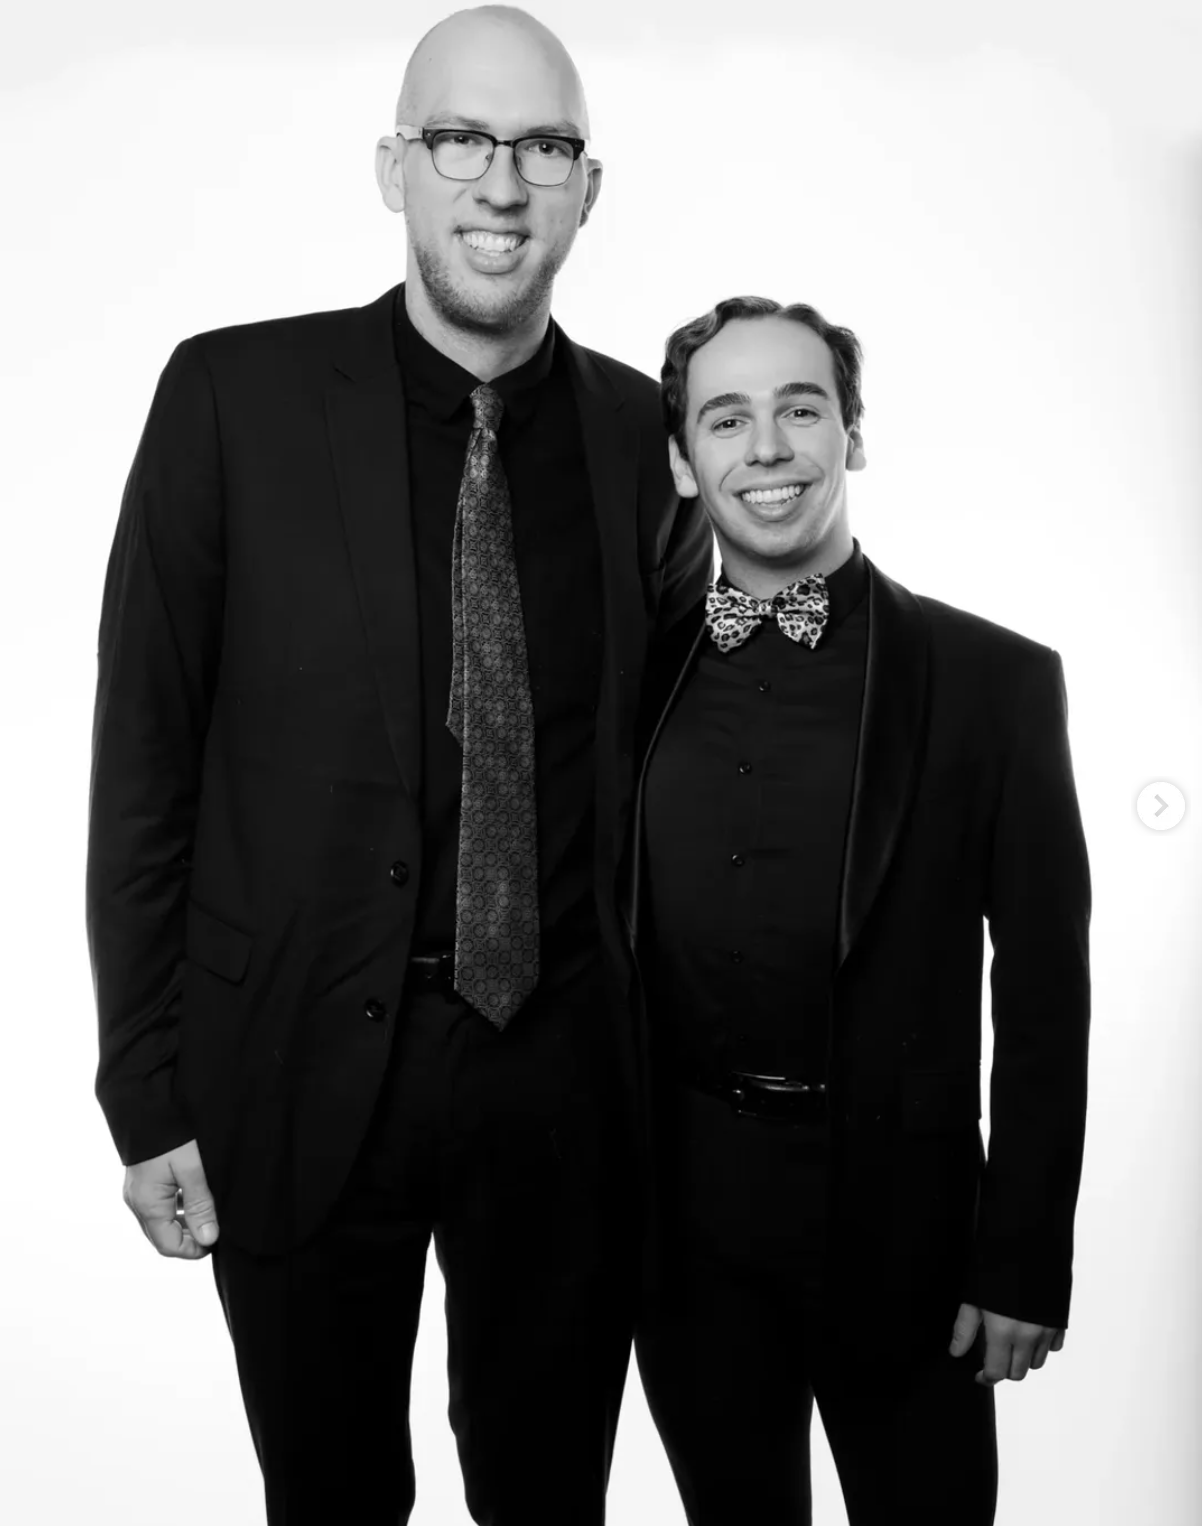
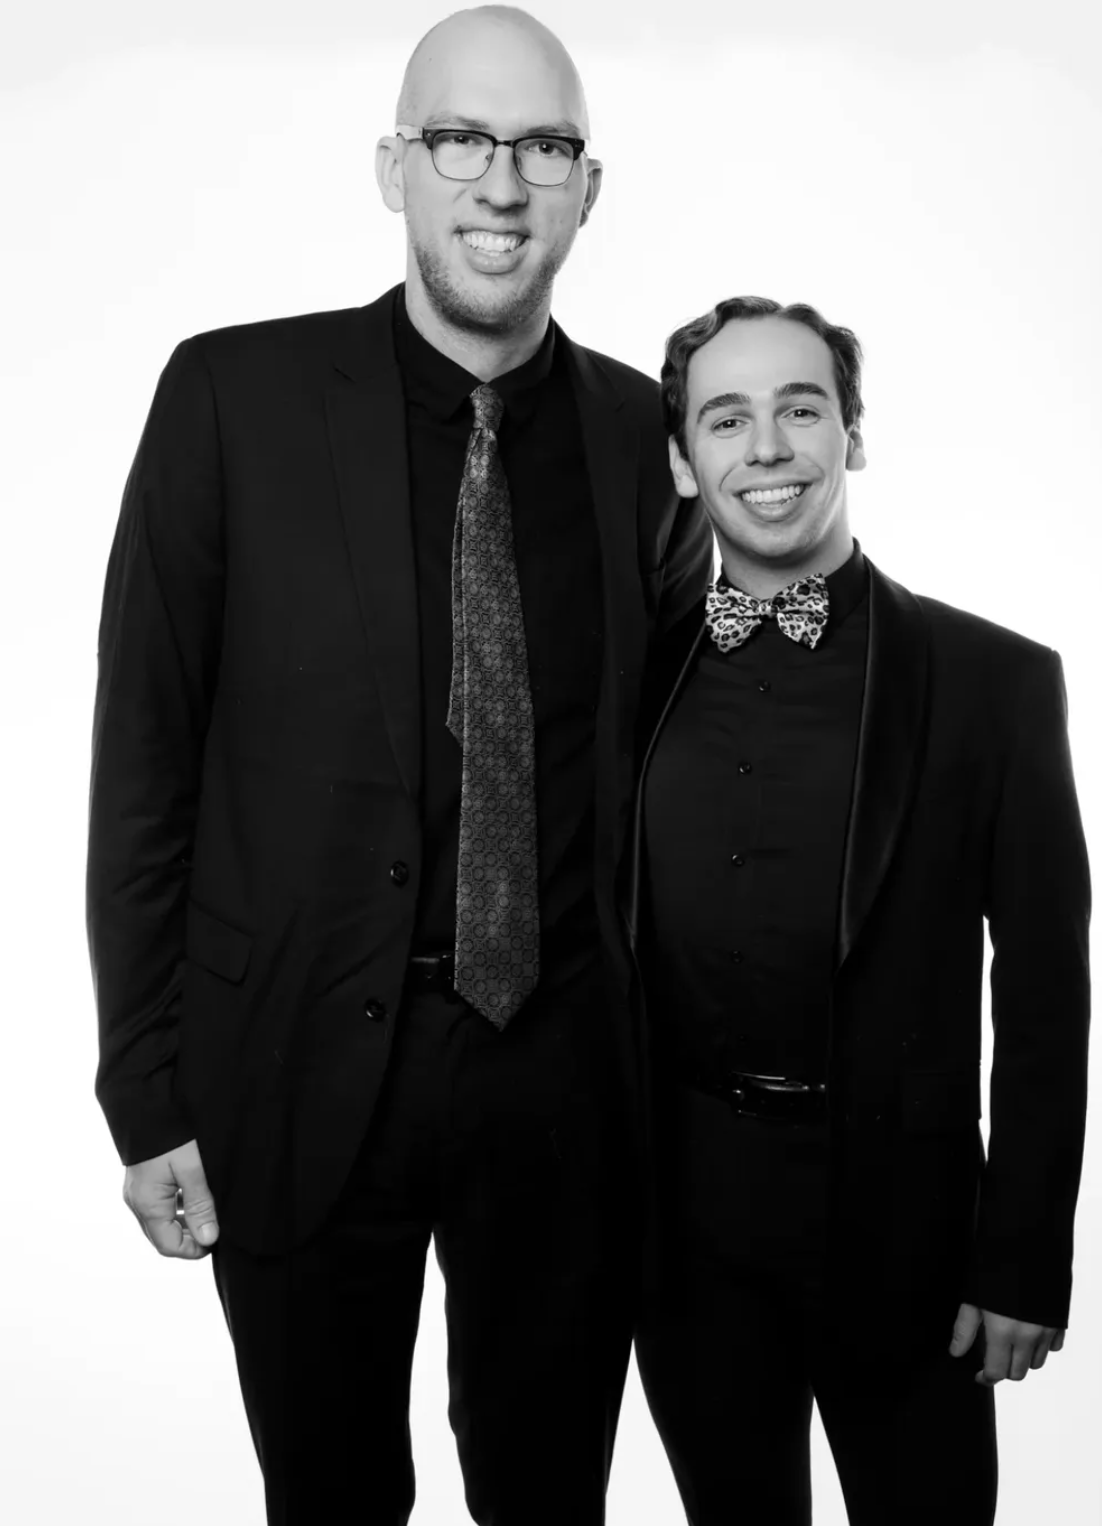
Add couple's photo to placeholder page
Crop out an Instagram carousel arrow that was baked into the
uploaded image, and swap the photo frame from circle to a
rounded portrait shape that fits the full-body shot.

Claude-Session: https://claude.ai/code/session_017dFwQT7f9xaf29A2AWhhuC

diff --git a/index.html b/index.html
@@ -37,34 +37,23 @@
     text-align: center;
   }
   .photo-frame {
-    width: 220px;
-    height: 220px;
+    width: 240px;
+    max-width: 65vw;
+    aspect-ratio: 1102 / 1526;
     margin: 0 auto 32px;
-    border-radius: 50%;
+    border-radius: 16px;
     border: 1px solid var(--line);
     background: #fff;
     display: flex;
     align-items: center;
     justify-content: center;
     overflow: hidden;
+    box-shadow: 0 8px 24px rgba(46, 42, 38, 0.08);
   }
   .photo-frame img {
     width: 100%;
     height: 100%;
     object-fit: cover;
-  }
-  .monogram {
-    font-family: 'Playfair Display', serif;
-    font-weight: 500;
-    font-size: 44px;
-    color: var(--gold);
-    letter-spacing: 2px;
-  }
-  .ampersand {
-    font-style: italic;
-    font-size: 28px;
-    opacity: 0.6;
-    margin: 0 4px;
   }
   h1 {
     font-family: 'Playfair Display', serif;
@@ -102,12 +91,7 @@
 <body>
   <div class="card">
     <div class="photo-frame">
-      <!--
-        To add the couple's photo: replace the line below with
-        <img src="photo.jpg" alt="John and TJ" />
-        and commit photo.jpg alongside this file.
-      -->
-      <span class="monogram">J<span class="ampersand">&amp;</span>T</span>
+      <img src="sitepic.png" alt="John and TJ" />
     </div>
     <h1>John <span class="amp">&amp;</span> TJ</h1>
     <div class="divider"></div>
